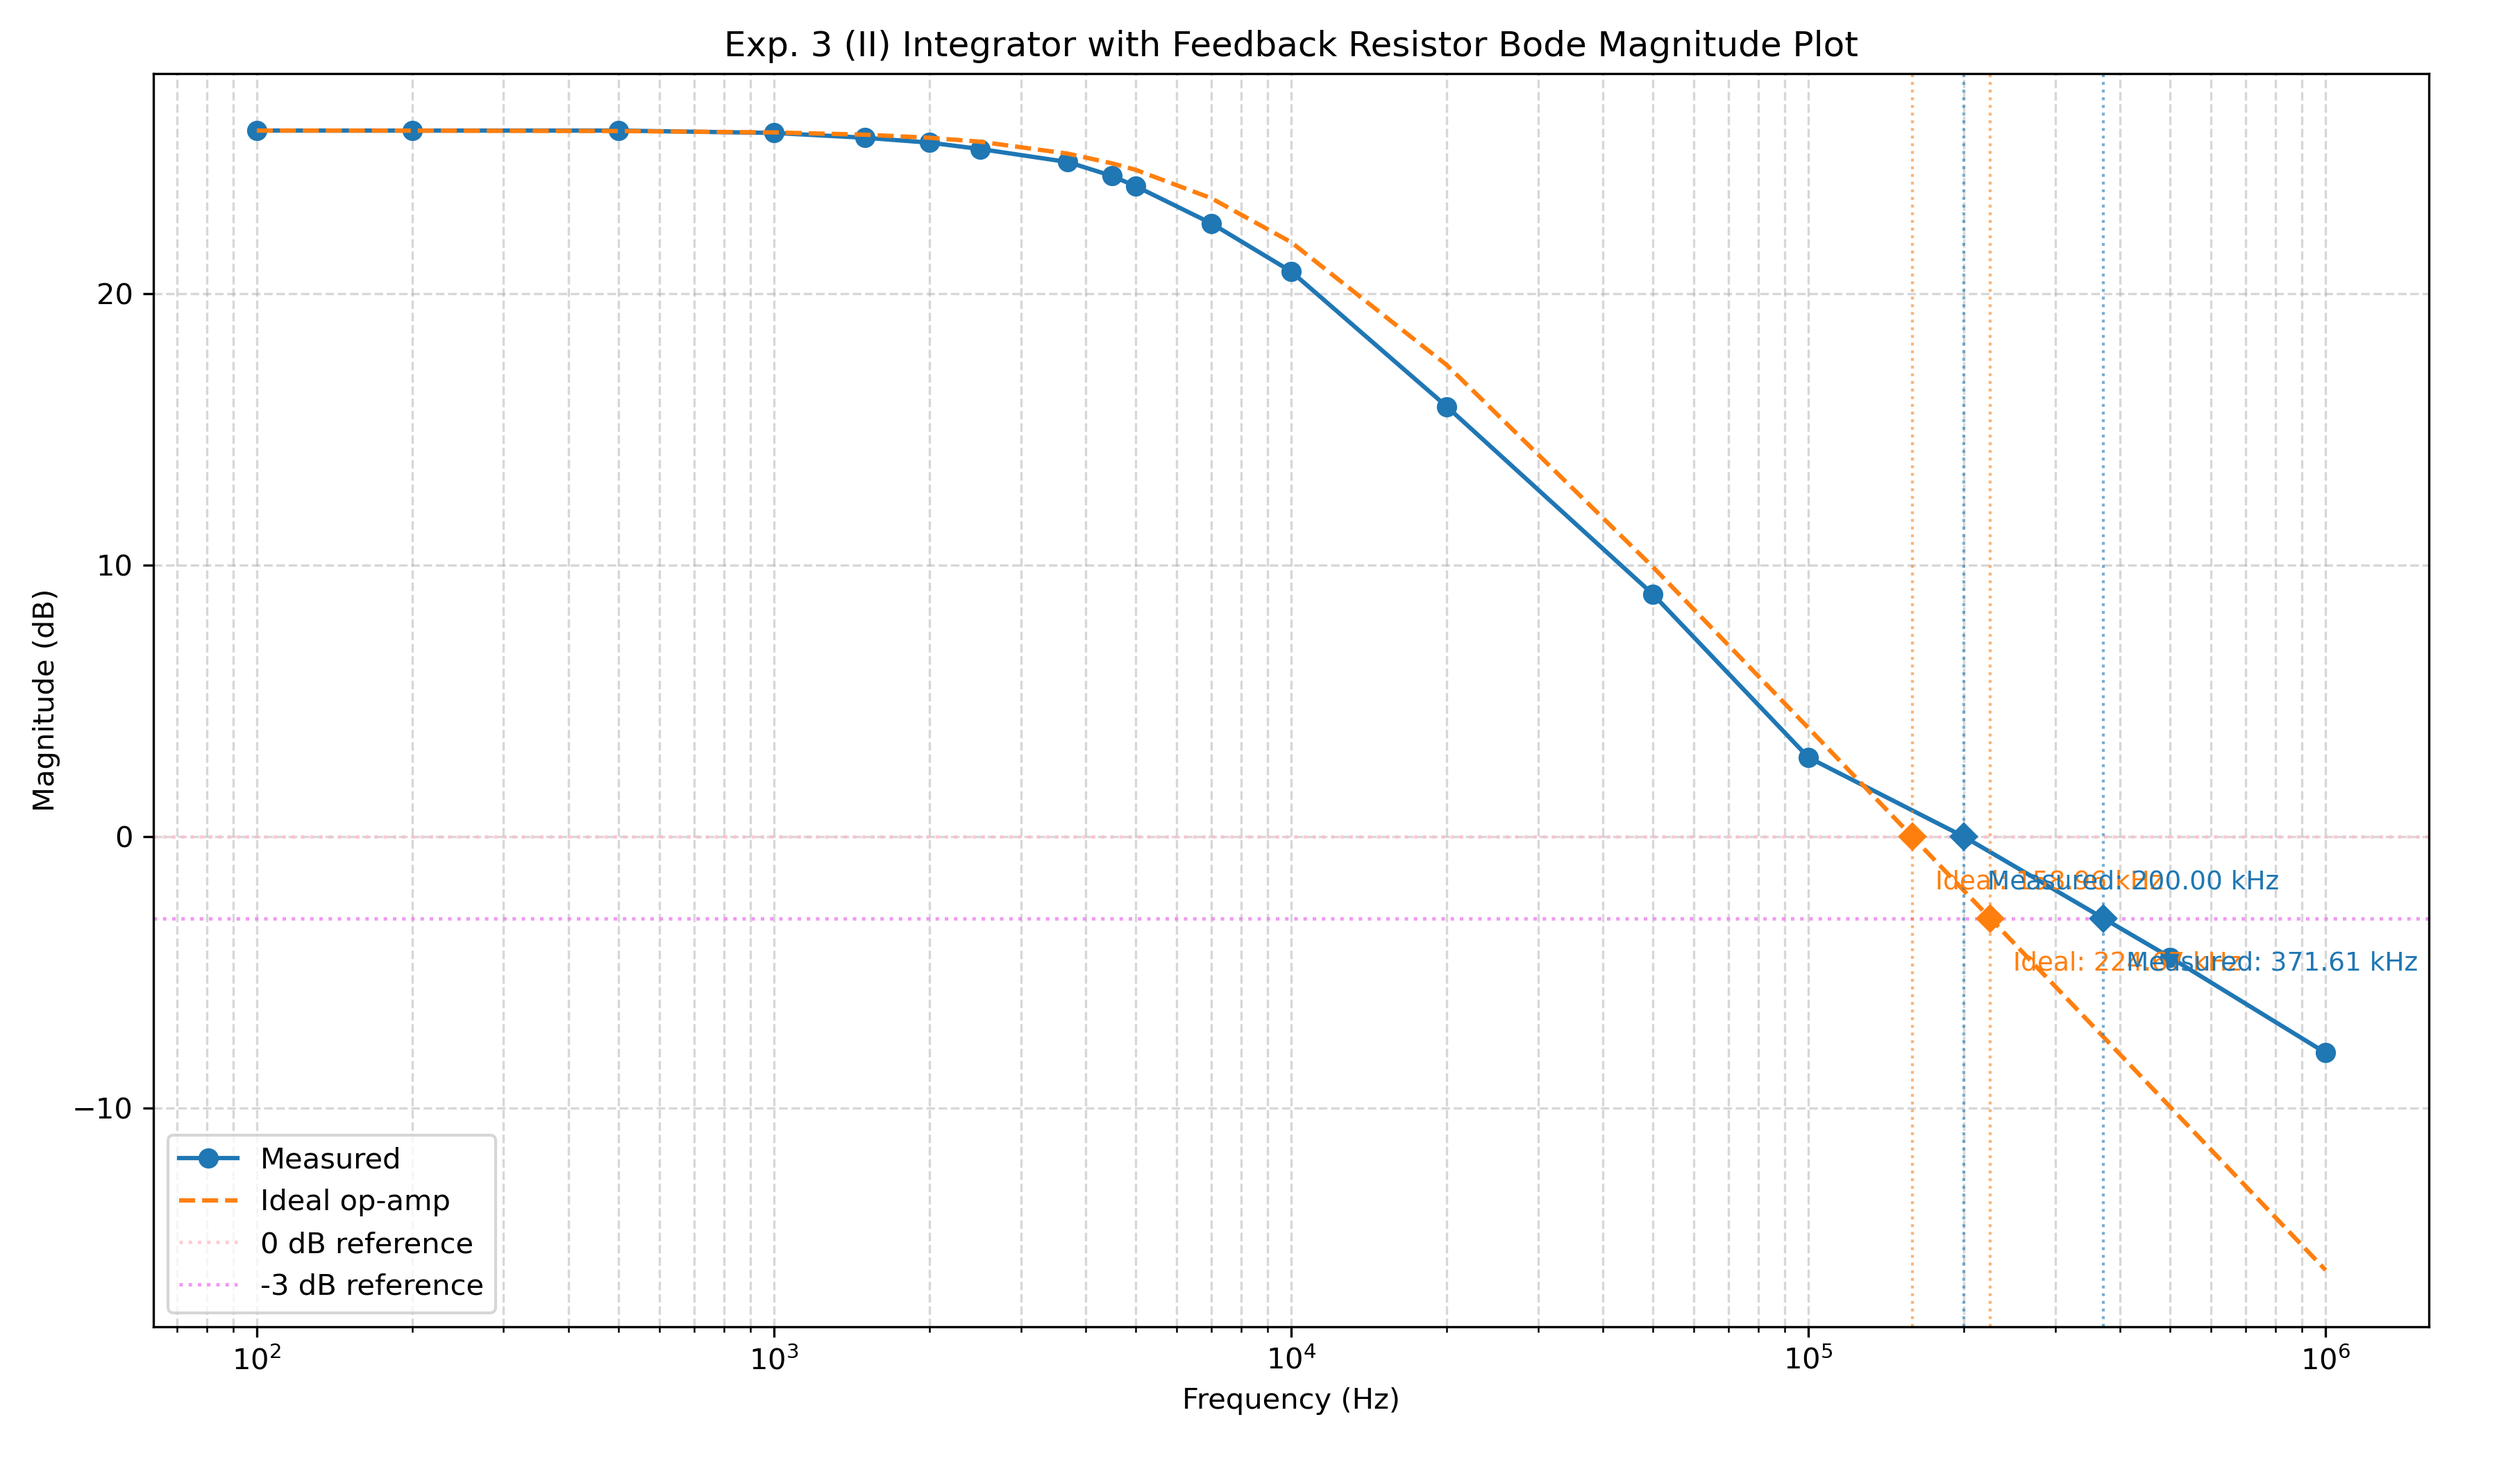
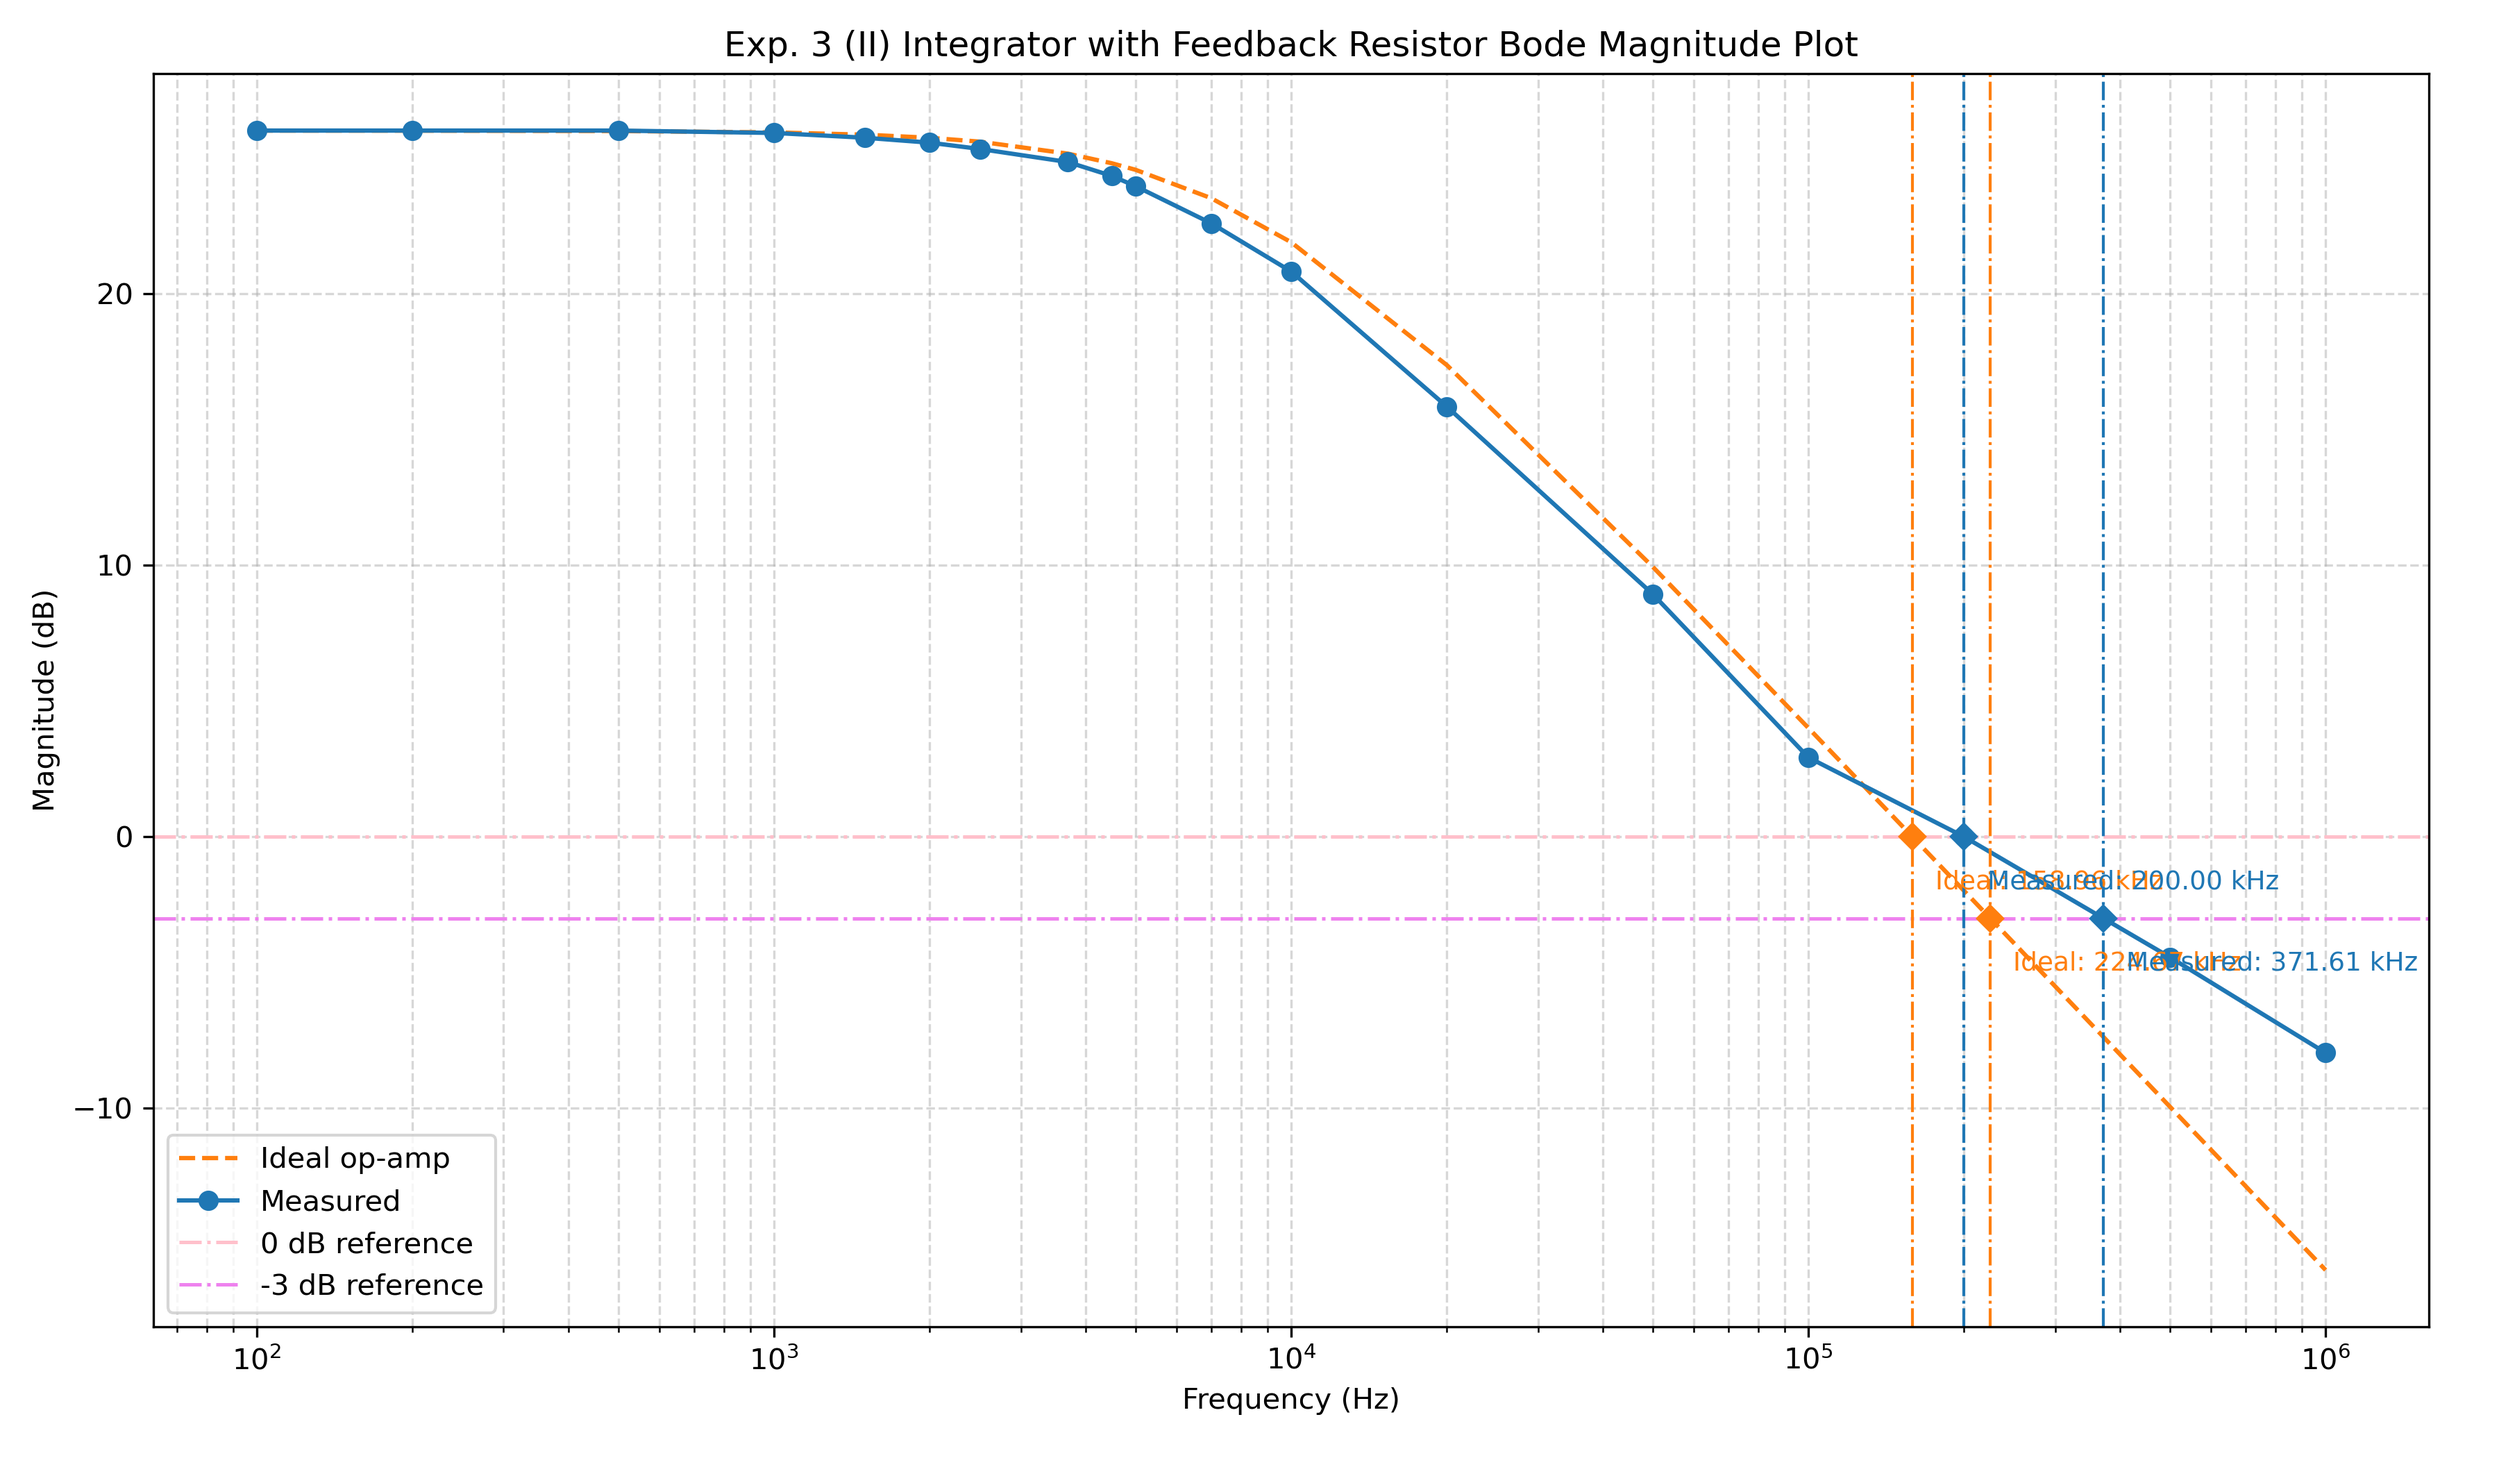
2026-11-08T10:32:10+00:00

Changed region(s): [[0.0622, 0.7738, 0.1867, 0.8357]]

diff --git a/2/post-lab/bode_plot.py b/2/post-lab/bode_plot.py
@@ -106,17 +106,18 @@ def process(C, freq, vout_pp, name, title, plotname, tablename):
     fig.savefig(tablename, dpi=300, bbox_inches="tight")
     plt.close(fig)
     fig, ax = plt.subplots(figsize=(12, 7))
-    ax.semilogx(freq, measured_db, "o-", label="Measured")
-    ax.semilogx(freq, ideal_db, "--", label="Ideal op-amp")
+    amp_names = ["Ideal", "Measured"]
+    amp_colors = ["tab:orange", "tab:blue"]
     reference_levels = [0, -3]
     reference_colors = ["pink", "violet"]
+    ax.semilogx(freq, ideal_db, "--", label="Ideal op-amp", color=amp_colors[0])
+    ax.semilogx(freq, measured_db, "o-", label="Measured", color=amp_colors[1])
     for level, color in zip(reference_levels, reference_colors):
         ax.axhline(
             level,
             color=color,
-            linestyle=":",
+            linestyle="-.",
             linewidth=1.2,
-            alpha=0.8,
             label=f"{level} dB reference",
         )
     freq_dense = np.logspace(
@@ -125,14 +126,12 @@ def process(C, freq, vout_pp, name, title, plotname, tablename):
         10000,
     )
     ideal_dense_db = magnitude_db(transfer_function(freq_dense, name, C))
-    crossing_names = ["Ideal", "Measured"]
-    crossing_colors = ["tab:orange", "tab:blue"]
     for level in reference_levels:
         crossings = [
             find_crossings(freq_dense, ideal_dense_db, level),
             find_crossings(freq, measured_db, level),
         ]
-        for crossing, name, color in zip(crossings, crossing_names, crossing_colors):
+        for crossing, name, color in zip(crossings, amp_names, amp_colors):
             for i, fc in enumerate(crossing):
                 ax.plot(
                     fc,
@@ -145,8 +144,7 @@ def process(C, freq, vout_pp, name, title, plotname, tablename):
                 ax.axvline(
                     fc,
                     color=color,
-                    linestyle=":",
-                    alpha=0.6,
+                    linestyle="-.",
                     linewidth=1,
                 )
                 ax.annotate(
